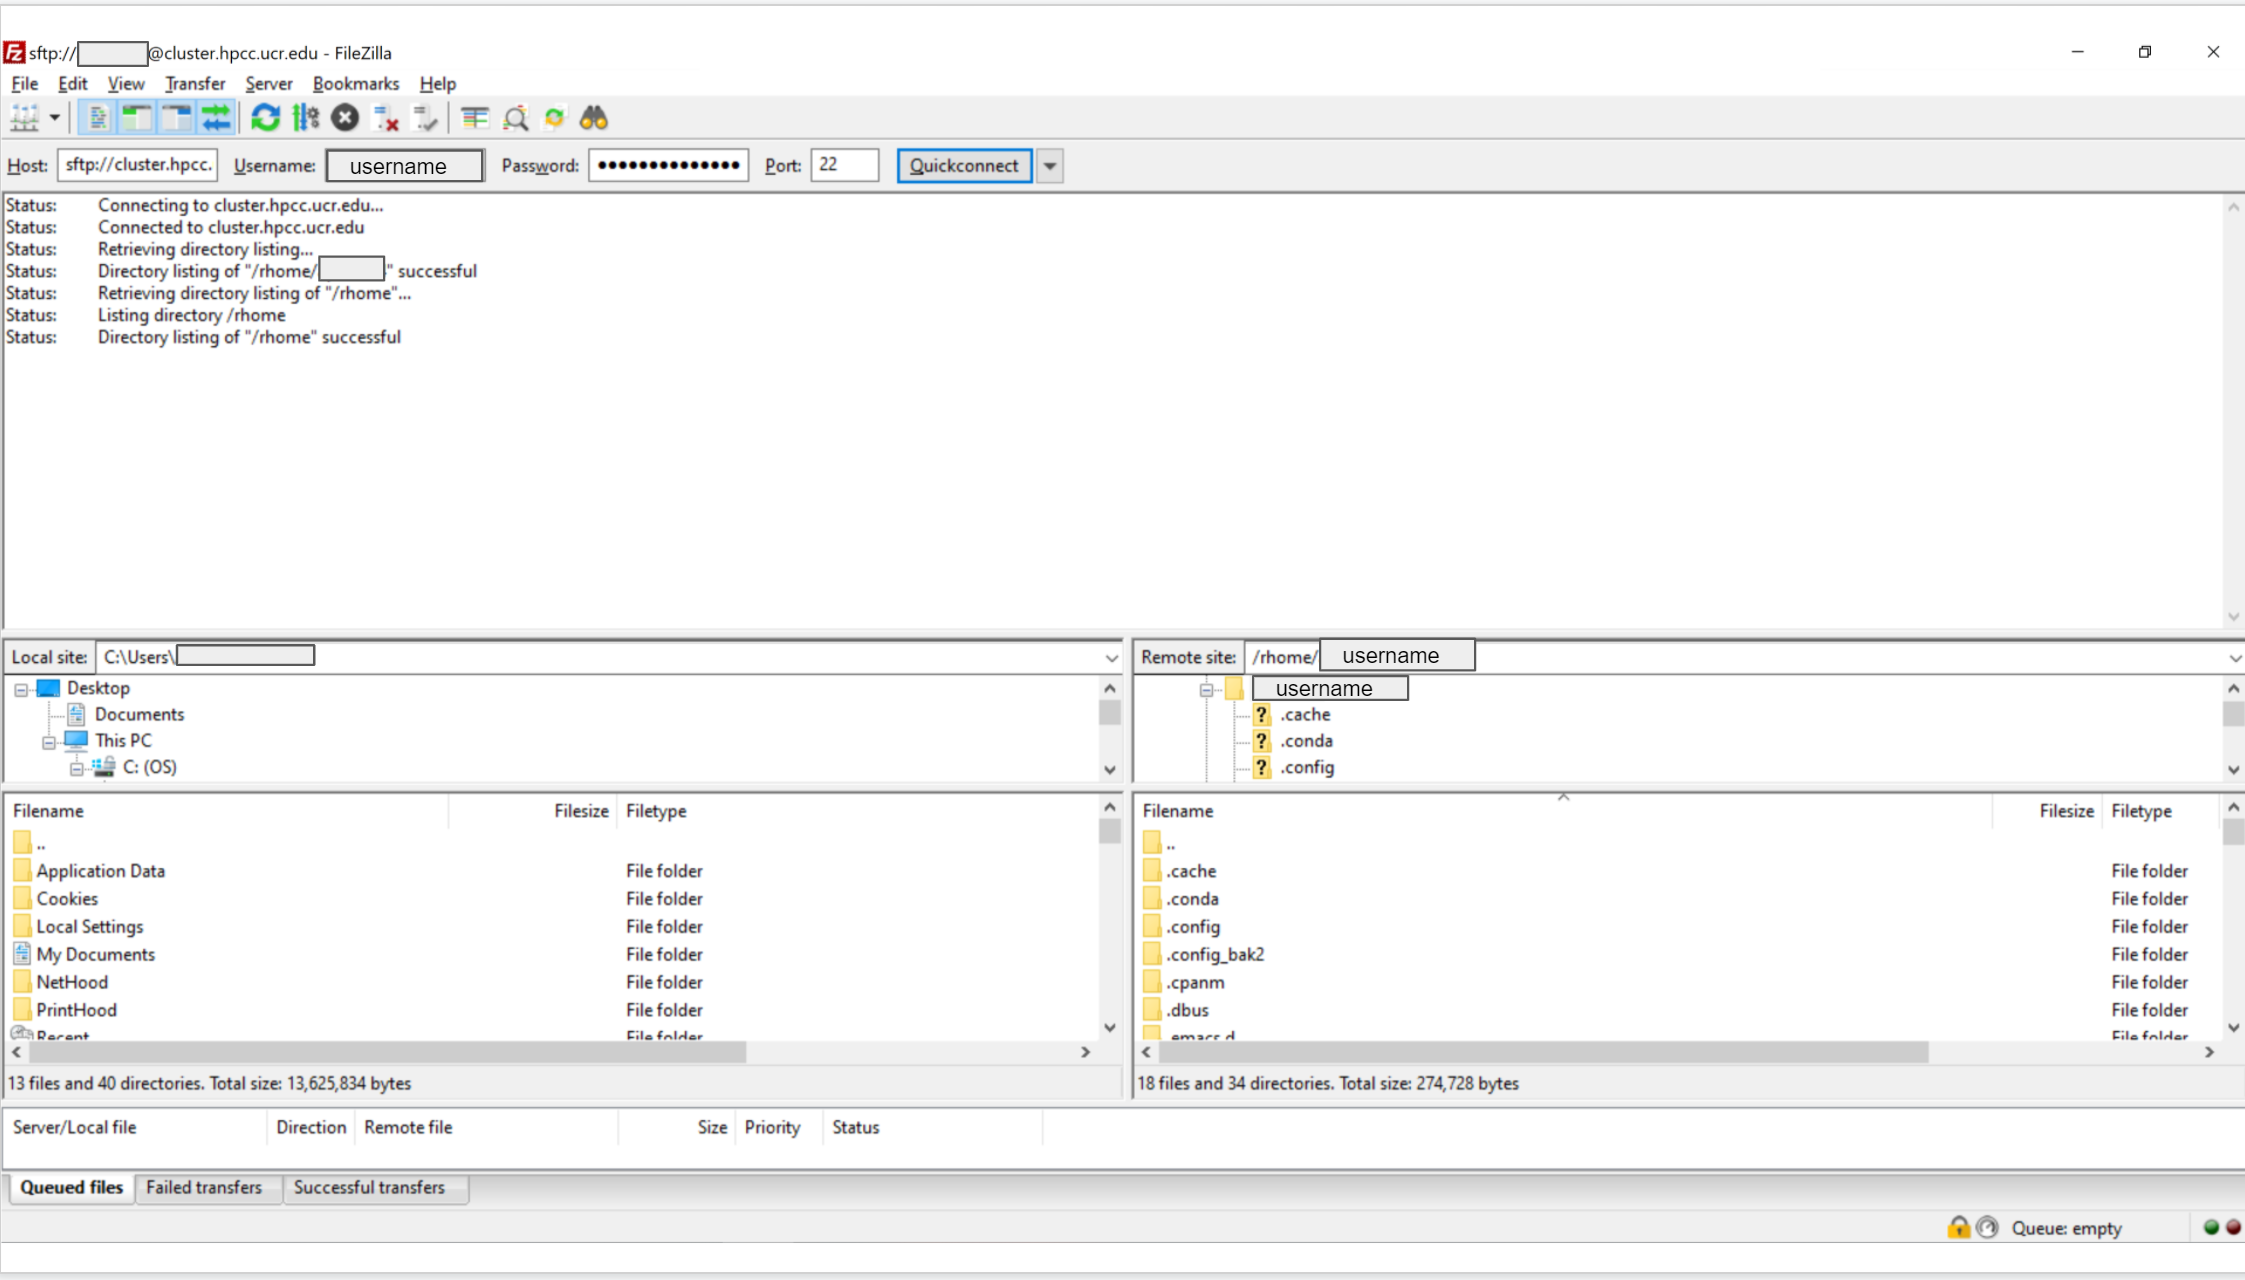
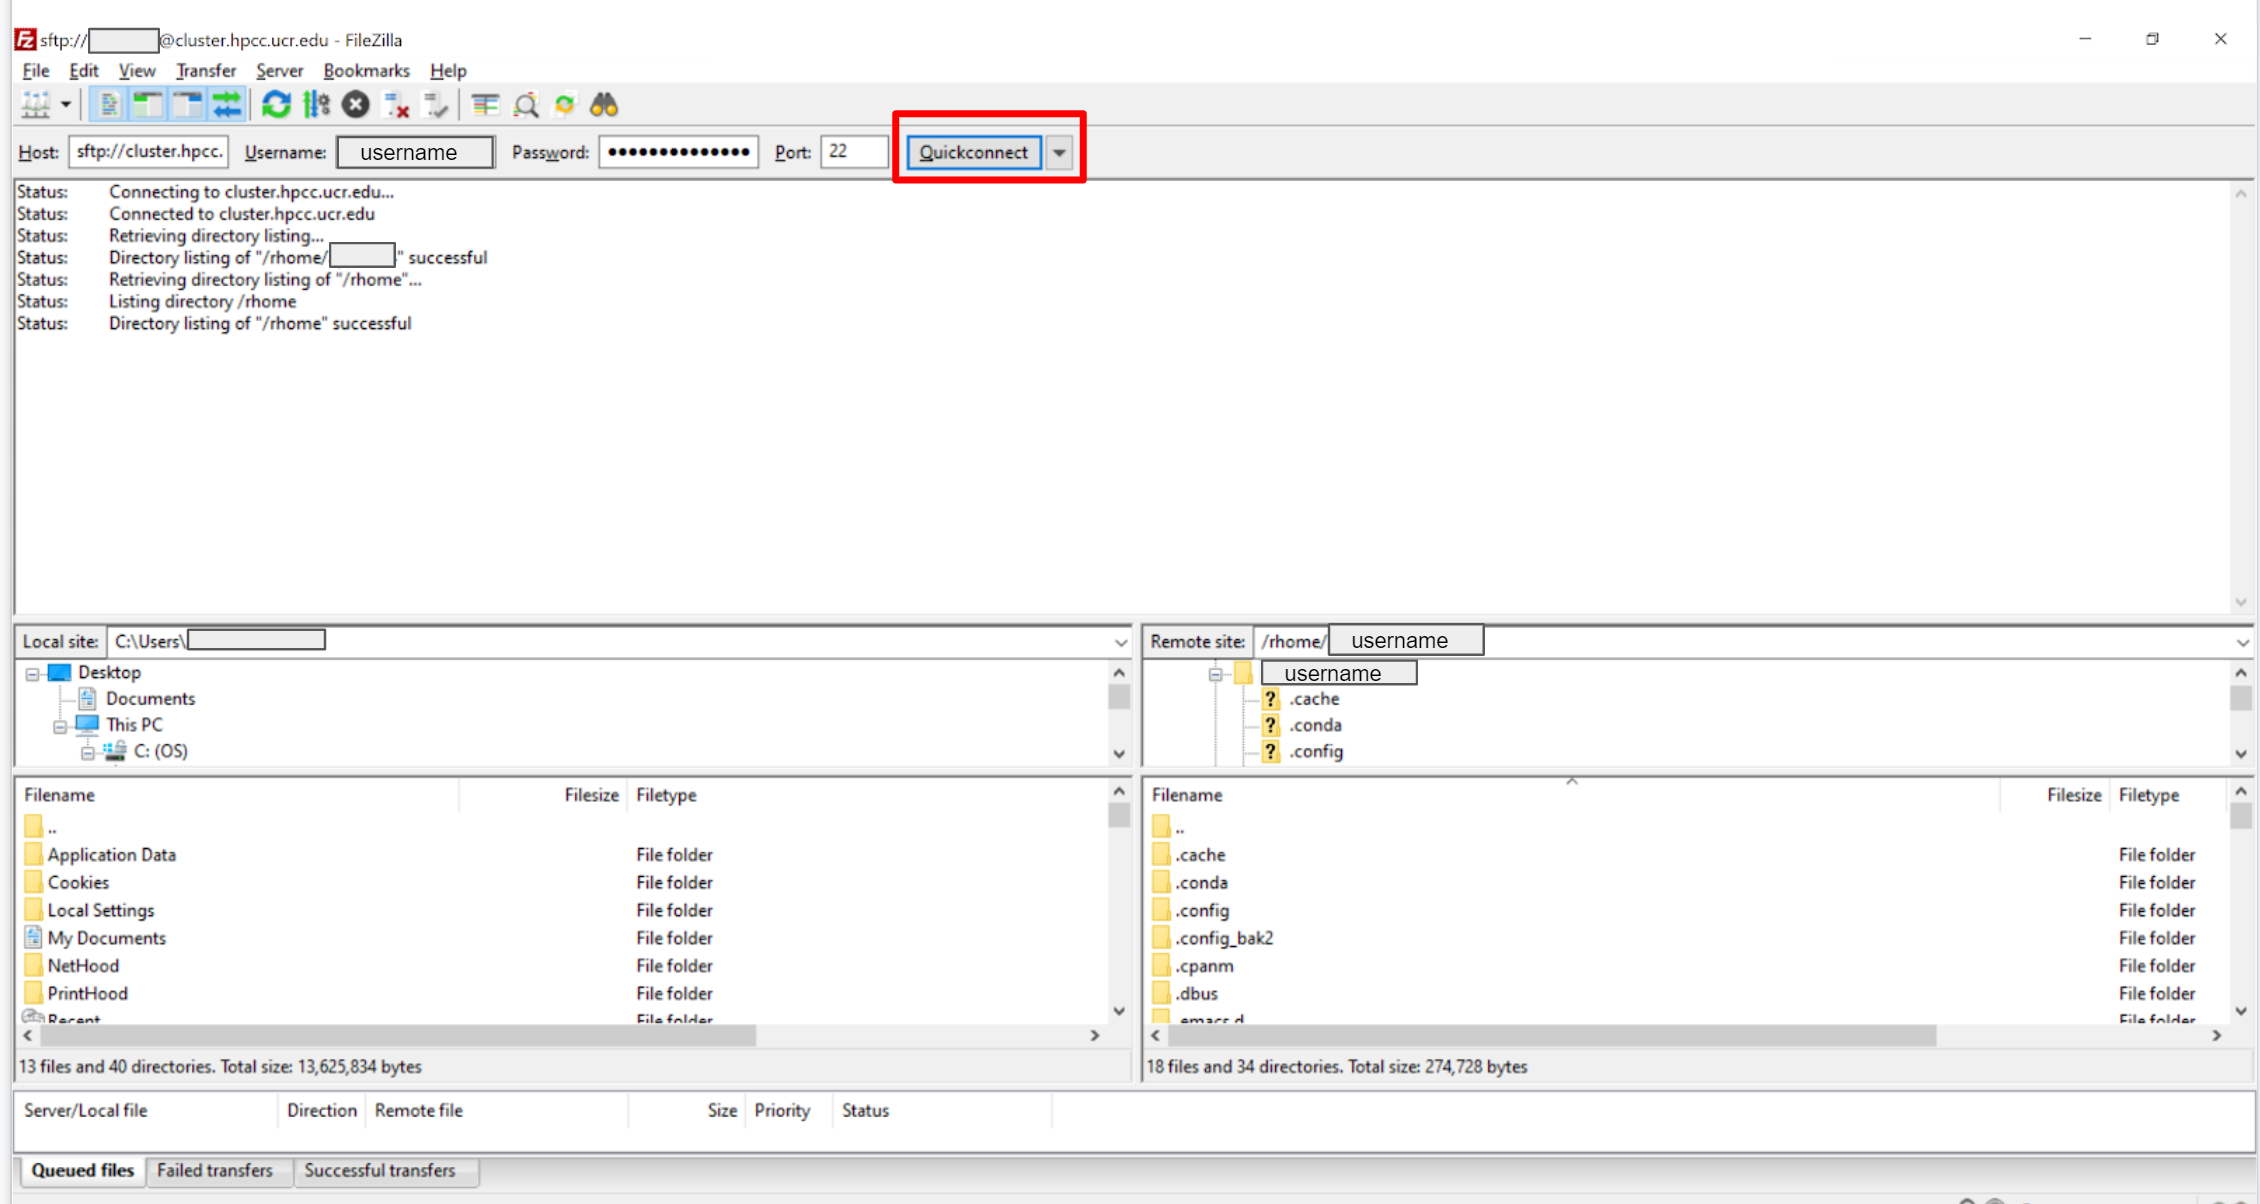
updated screenshots

Changed region(s): [[0.0, 0.0, 1.0, 1.0], [0.9354, 0.0, 0.9666, 0.0307]]

diff --git a/pages/manuals/manuals_linux-cluster_sshkeys_winos.md b/pages/manuals/manuals_linux-cluster_sshkeys_winos.md
@@ -95,7 +95,19 @@ Now that you have created your `SSH keys`, and renamed them, you will need to pl
 
    ![filezilla3](images/filezilla3.png)
 
-5. Now that you are connected to Filezilla transfer your public SSH key from your system by dragging the file `id_rsa.pub` and dropping it into the HPCC cluster direcotry `/rhome/username/.ssh/`.
+5. You will need to create a `.ssh` directory to hold your SSH keys. On the right hand side, right click and click on the `Create directory option` under your home folder location.
+   ![createsshdir](images/createsshdir.png)
+
+6. A window will appear to name the new directory. Name should be the following format: `/rhome/username/.ssh`. After naming the new directory click on `OK`.
+   ![createsshdir](images/createsshdir2.png)
+
+7. Right click on the new `.ssh` directory that has been created. Find and click on `File permissions`.
+   ![createsshdir](images/createsshdir3.png)
+
+8. A window with the directory permissions will appear. The `.ssh` directory needs exact permissions in order for it to function properly. Follow the image below to apply the permissions.
+   ![createsshdir](images/createsshdir4.png)
+
+9. Now that you are connected to Filezilla transfer your public SSH key from your system by dragging the file `id_rsa.pub` and dropping it into the HPCC cluster direcotry `/rhome/username/.ssh/`.
 
    ![filezilla4](images/filezilla4.png)
 
